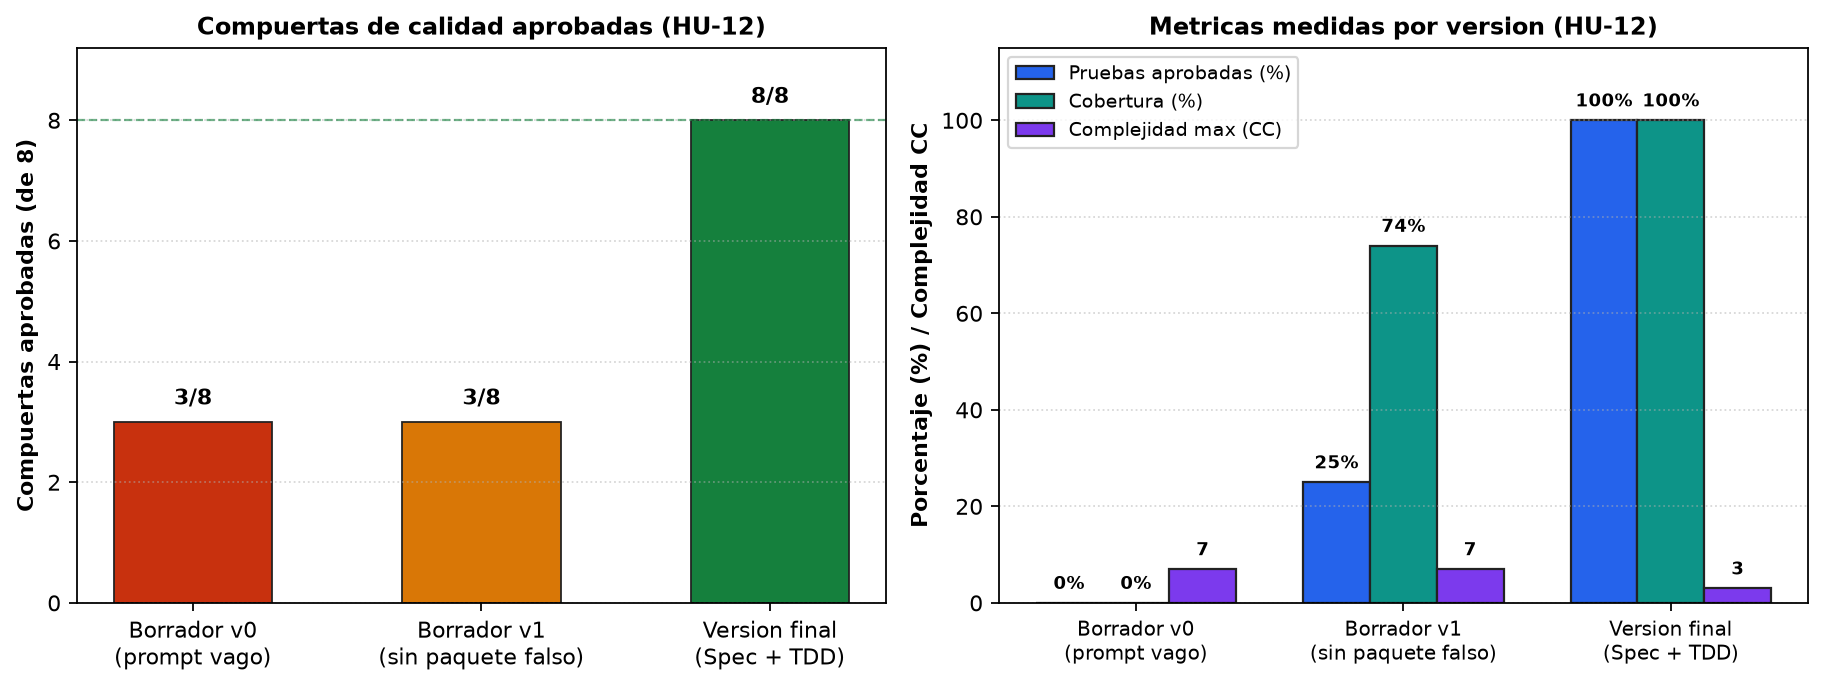
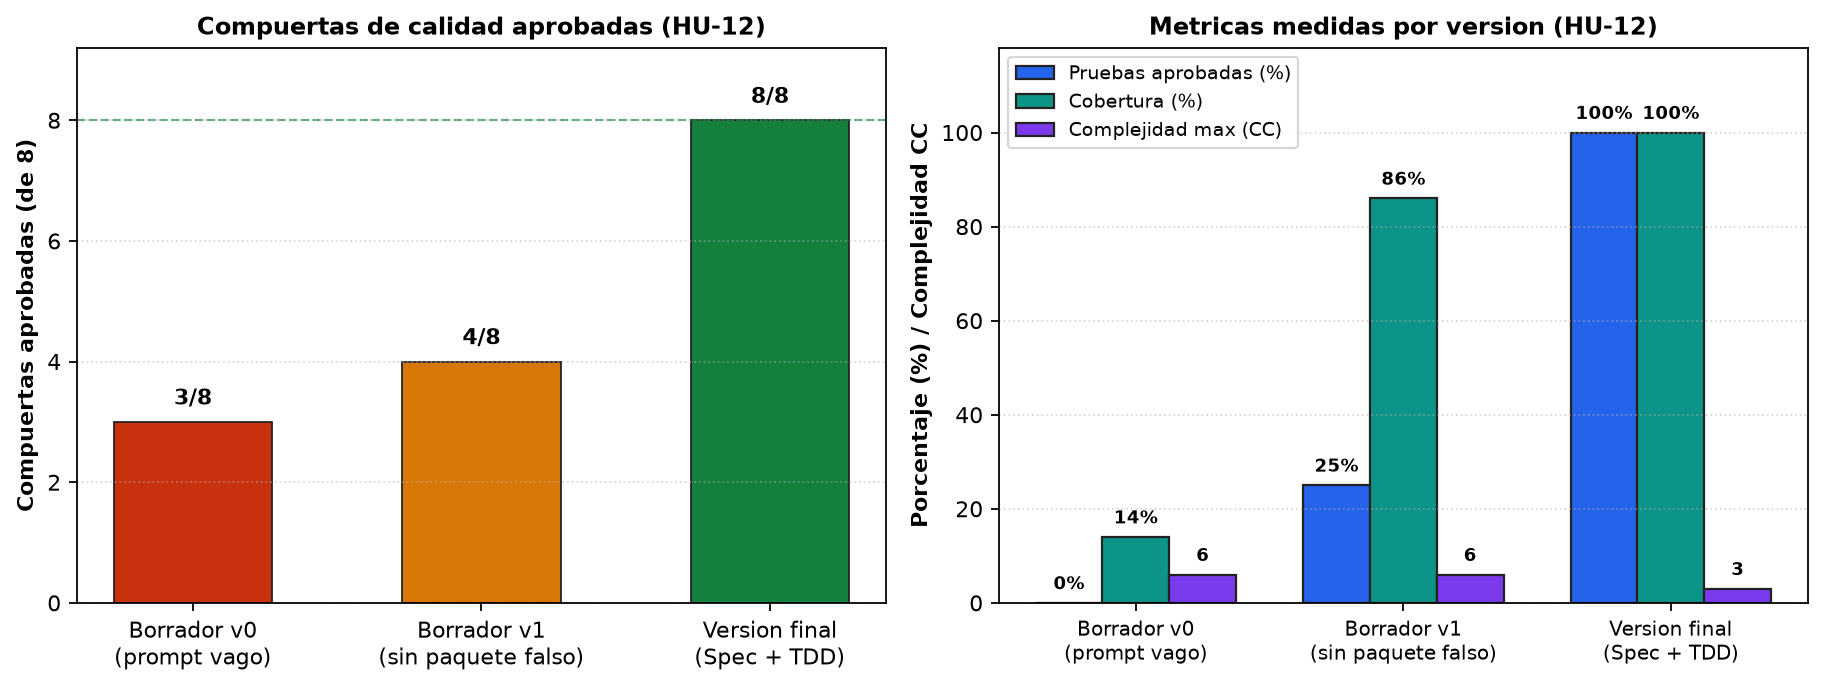
E5: ajustar cifras exactas de cobertura y compuertas en comparativa

diff --git a/docs/lab12/comparativa-compuertas.md b/docs/lab12/comparativa-compuertas.md
@@ -6,10 +6,10 @@ Se comparó un borrador generado con un prompt vago sin `AGENTS.md` ni `spec.md`
 |---|---|---|---|
 | 1. Dependencias aprobadas | FALLA (`geopy_fast_eta`, `subprocess`) | FALLA (`subprocess`) | PASA (4 aprobadas) |
 | 2. Pruebas HU-12 | FALLA (0/8) | FALLA (2/8) | PASA (8/8) |
-| 3. Cobertura (>= 85 %) | FALLA (0 %) | FALLA (74 %) | PASA (100 %) |
-| 4. Ruff (estilo y seguridad) | FALLA | FALLA | PASA (0 hallazgos) |
+| 3. Cobertura (>= 85 %) | FALLA (14 %) | PASA (86 %) | PASA (100 %) |
+| 4. Ruff (estilo y seguridad) | FALLA (3 hallazgos) | FALLA (2 hallazgos) | PASA (0 hallazgos) |
 | 5. Bandit (seguridad) | FALLA (B404, B602) | FALLA (B404, B602) | PASA (sin hallazgos) |
-| 6. Radon (complejidad <= B) | PASA (B, CC=7) | PASA (B, CC=7) | PASA (A, CC=3) |
+| 6. Radon (complejidad <= B) | PASA (B, CC=6) | PASA (B, CC=6) | PASA (A, CC=3) |
 | 7. Secretos en el código | PASA (0) | PASA (0) | PASA (0) |
 | 8. Arquitectura (`import-linter`) | PASA (3 contratos) | PASA (3 contratos) | PASA (3 contratos) |
-| **Total aprobadas** | **3/8** | **3/8** | **8/8** |
+| **Total aprobadas** | **3/8** | **4/8** | **8/8** |
